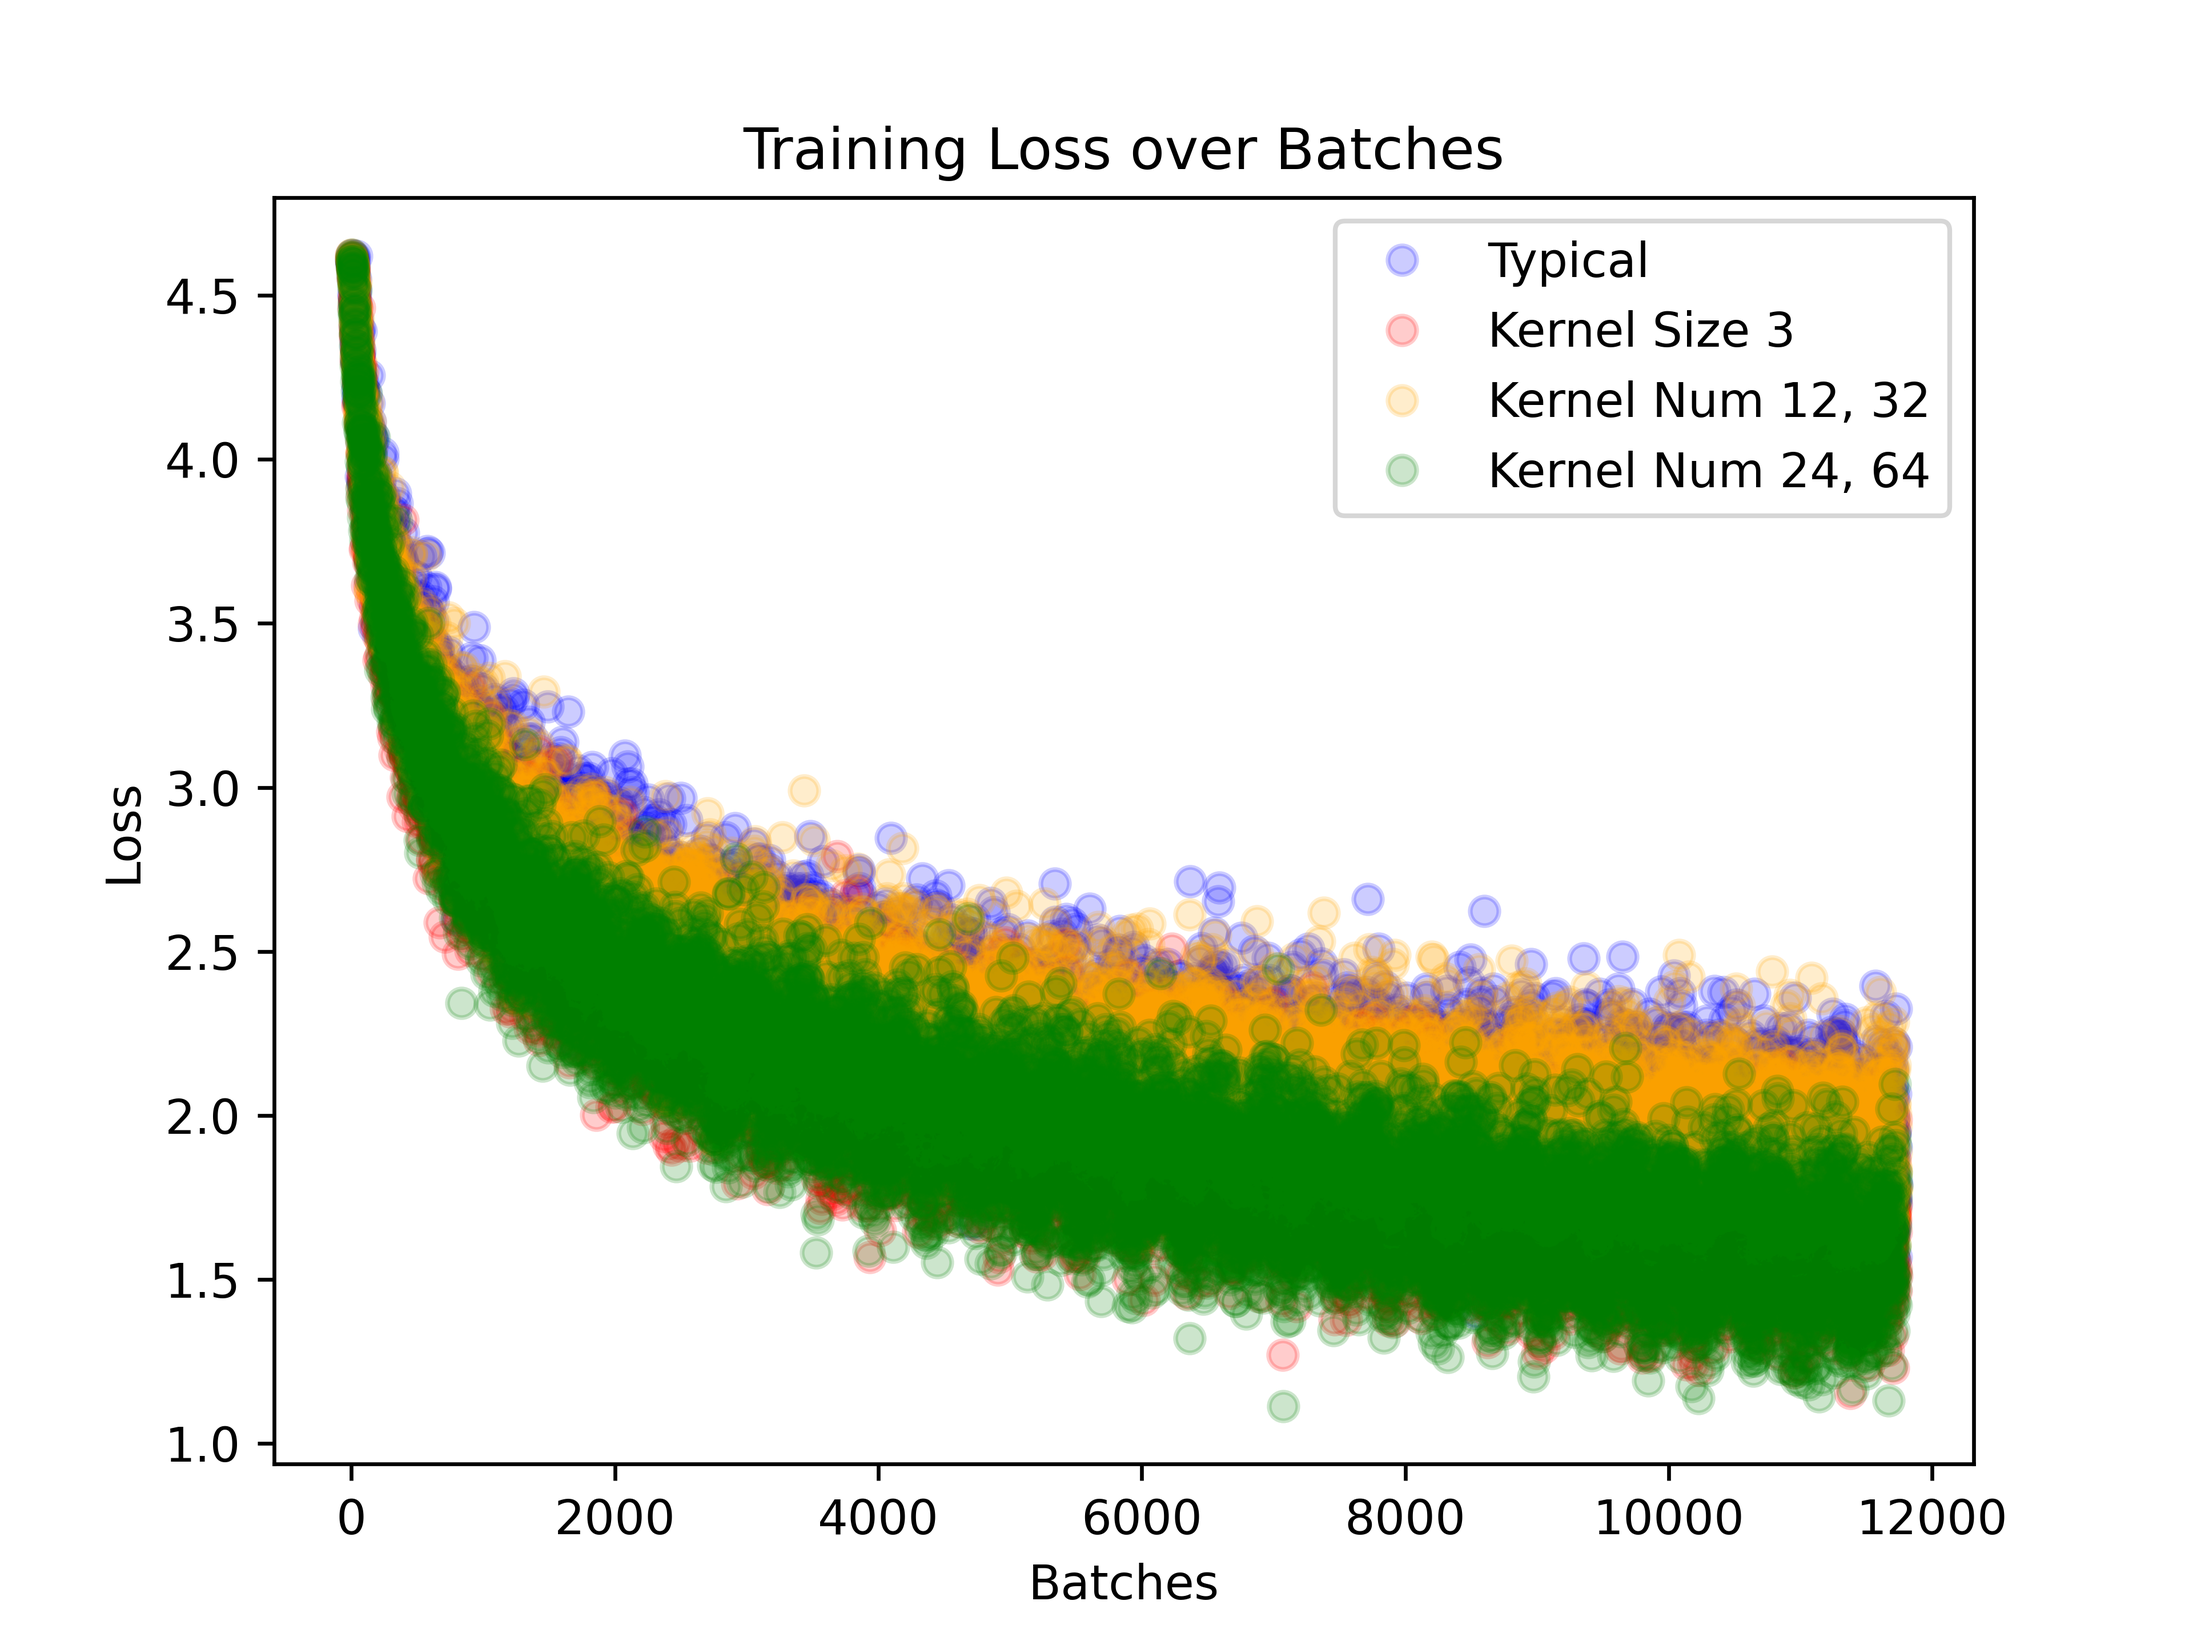
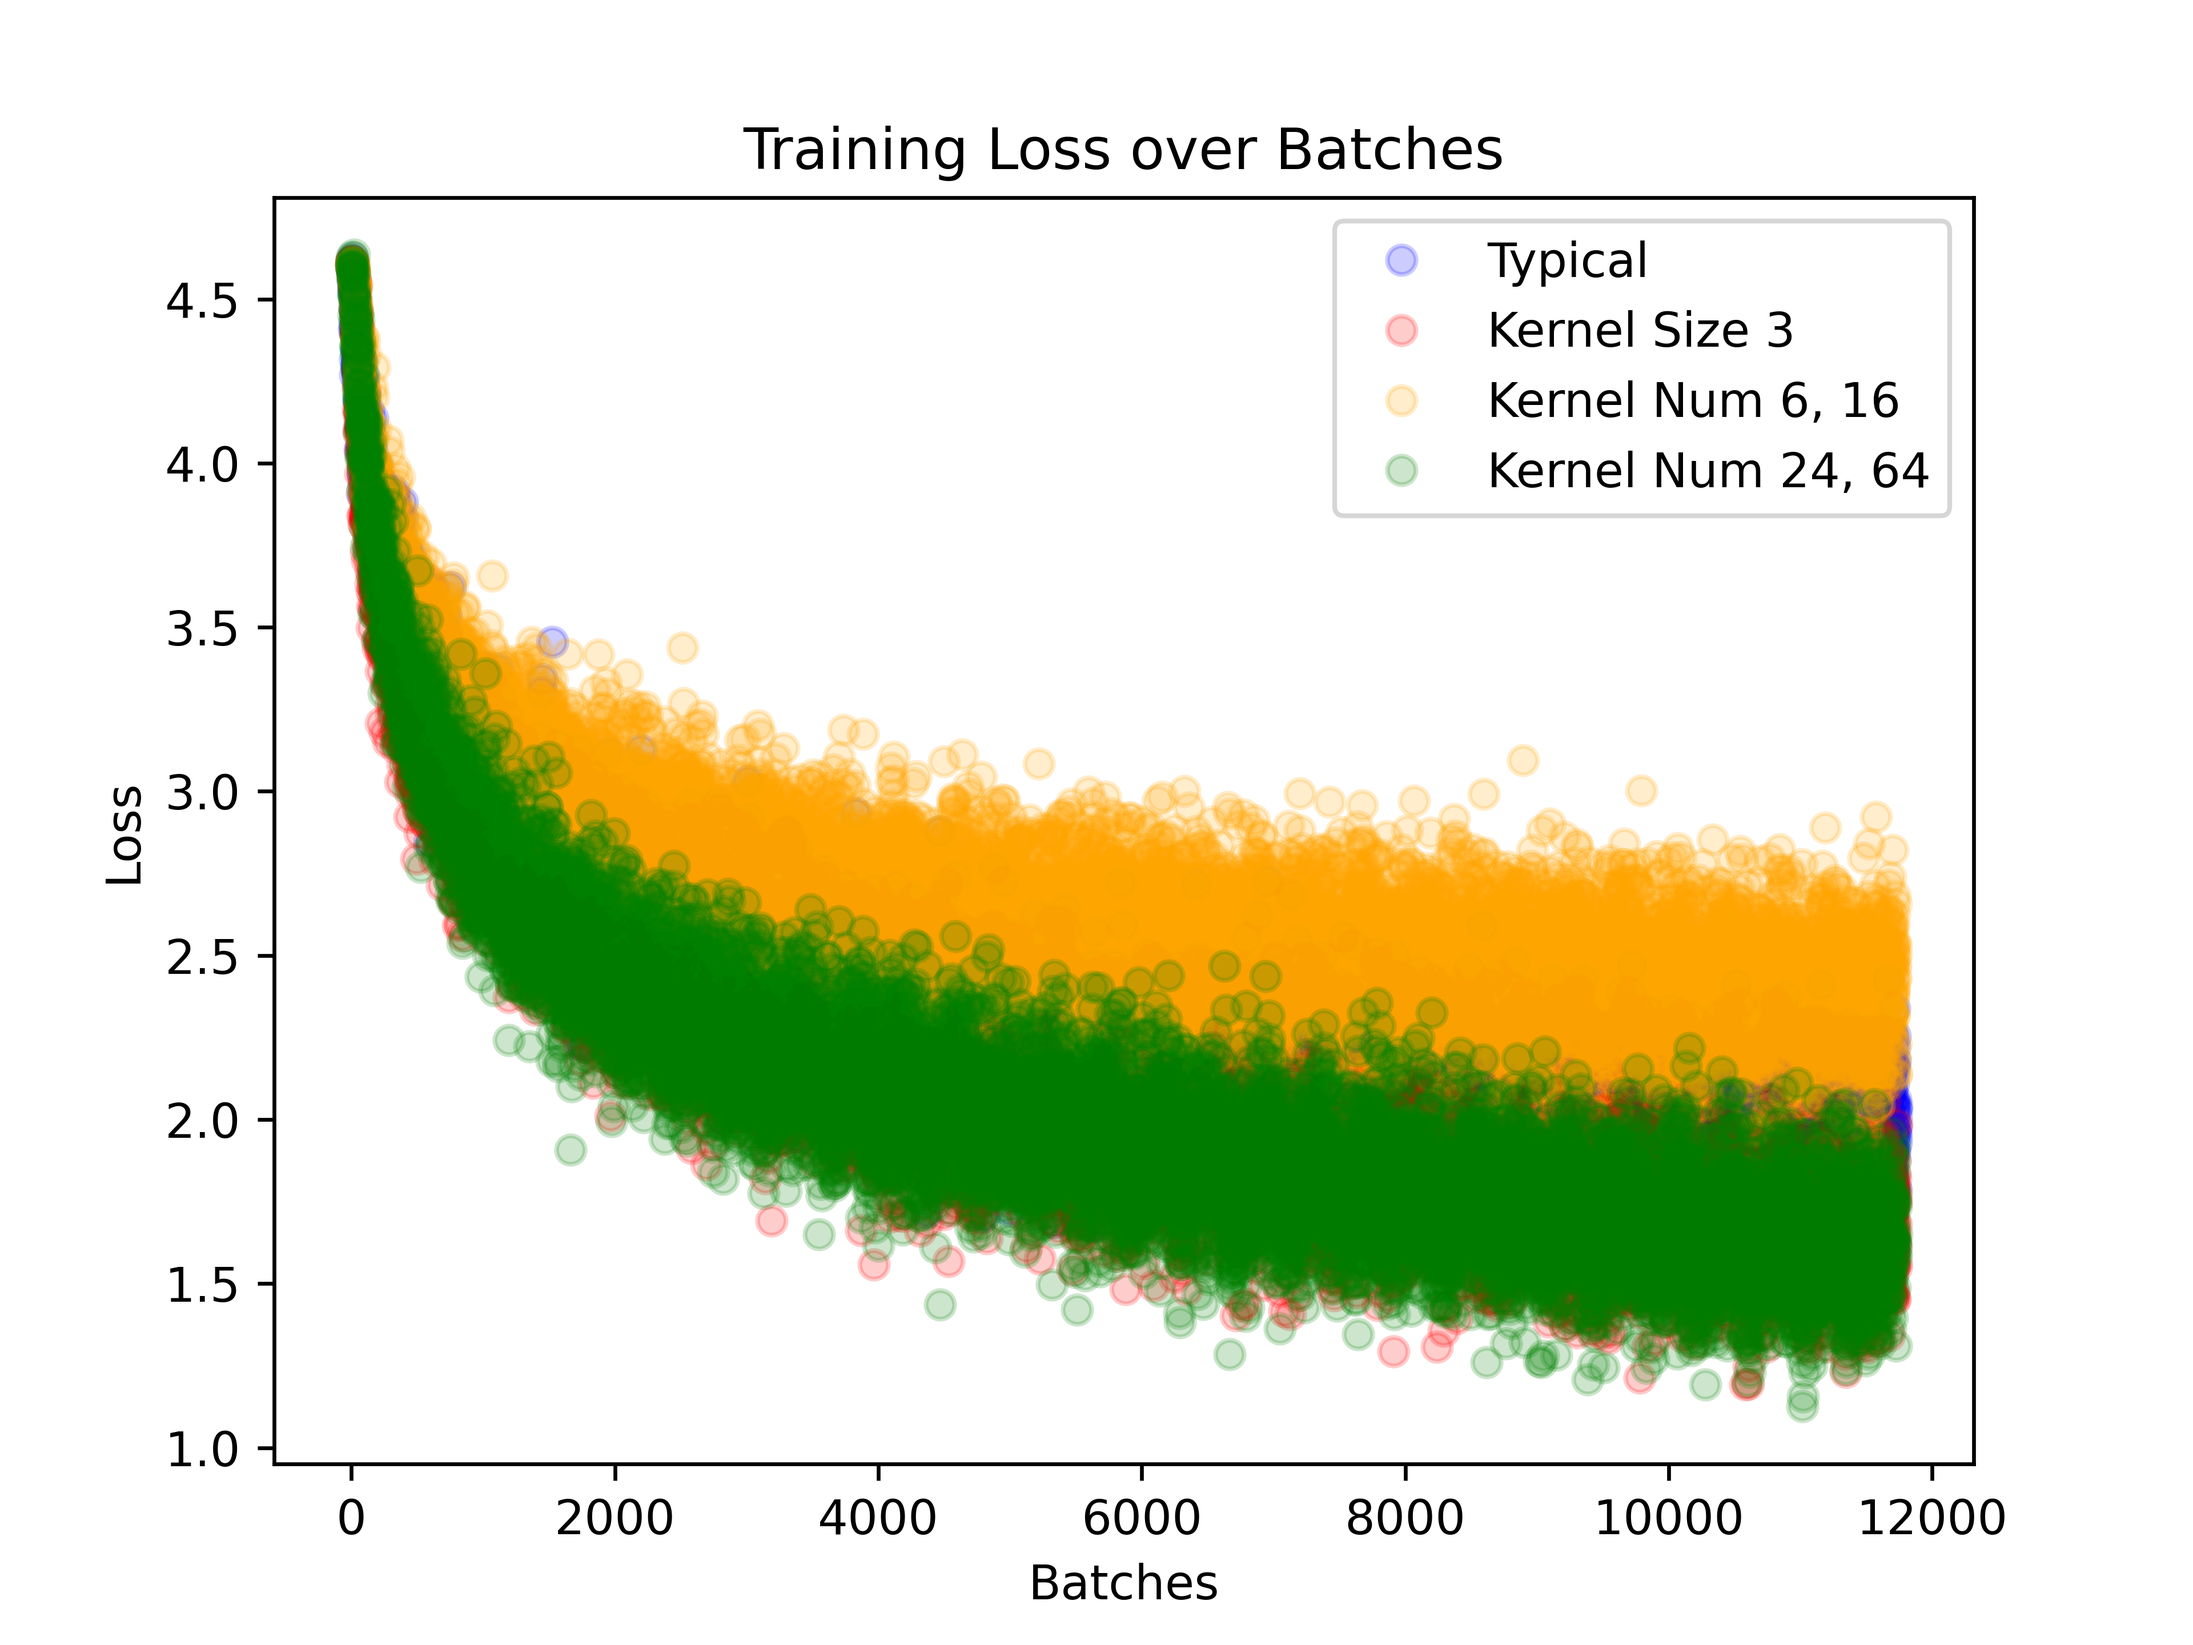
color

diff --git a/PA1/test_normalize.py b/PA1/test_normalize.py
@@ -6,7 +6,7 @@ import matplotlib.pyplot as plt
 
 args = train.args
 train.total_epoch = 30
-args['dataset'] = 'cifar10'
+args['dataset'] = 'cifar100'
 
 # 经典 LeNet-5，无归一化，batch_size = 64
 args['batch_size'] = 64
@@ -128,10 +128,10 @@ plt.savefig(f'./PA1/img/loss_norm_{args["dataset"]}_{args["model"]}_256.png', dp
 plt.clf()
 
 # Plot acc_log
-plt.plot(none_64_conv, label='None 64')
-plt.plot(bn_64_conv, label='BN 64')
-plt.plot(ln_64_conv, label='LN 64')
-plt.plot(gn_64_conv, label='GN 64')
+plt.plot(none_64_conv, label='None 64', color='blue')
+plt.plot(bn_64_conv, label='BN 64', color='red')
+plt.plot(ln_64_conv, label='LN 64', color='orange')
+plt.plot(gn_64_conv, label='GN 64', color='green')
 plt.xlabel('Epoch')
 plt.ylabel('Accuracy')
 plt.title('Test Accuracy over Epochs')
@@ -139,10 +139,10 @@ plt.legend()
 plt.savefig(f'./PA1/img/acc_norm_{args["dataset"]}_{args["model"]}_64.png', dpi = 600)
 plt.clf()
 
-plt.plot(none_128_conv, label='None 128')
-plt.plot(bn_128_conv, label='BN 128')
-plt.plot(ln_128_conv, label='LN 128')
-plt.plot(gn_128_conv, label='GN 128')
+plt.plot(none_128_conv, label='None 128', color='blue')
+plt.plot(bn_128_conv, label='BN 128', color='red')
+plt.plot(ln_128_conv, label='LN 128', color='orange')
+plt.plot(gn_128_conv, label='GN 128', color='green')
 plt.xlabel('Epoch')
 plt.ylabel('Accuracy')
 plt.title('Test Accuracy over Epochs')
@@ -150,10 +150,10 @@ plt.legend()
 plt.savefig(f'./PA1/img/acc_norm_{args["dataset"]}_{args["model"]}_128.png', dpi = 600)
 plt.clf()
 
-plt.plot(none_256_conv, label='None 256')
-plt.plot(bn_256_conv, label='BN 256')
-plt.plot(ln_256_conv, label='LN 256')
-plt.plot(gn_256_conv, label='GN 256')
+plt.plot(none_256_conv, label='None 256', color='blue')
+plt.plot(bn_256_conv, label='BN 256', color='red')
+plt.plot(ln_256_conv, label='LN 256', color='orange')
+plt.plot(gn_256_conv, label='GN 256', color='green')
 plt.xlabel('Epoch')
 plt.ylabel('Accuracy')
 plt.title('Test Accuracy over Epochs')

diff --git a/PA1/test_kernel.py b/PA1/test_kernel.py
@@ -8,7 +8,7 @@ args = train.args
 train.total_epoch = 30
 args['dataset'] = 'cifar100'
 
-# 经典 LeNet-5
+# 经典 LeNet-5, kernel_size 为 5, kernel_num1 为 12, kernel_num2 为 32
 train.args = args
 train.main()
 typical_loss, typical_conv = train.loss_log, train.acc_log
@@ -21,10 +21,10 @@ train.main()
 resize_loss, resize_acc = train.loss_log, train.acc_log
 train.loss_log, train.acc_log = [], []
 
-# 修改 kernel_num1 为 12, kernel_num2 为 32
+# 修改 kernel_num1 为 6, kernel_num2 为 16
 args['kernel_size'] = 5
-args['kernel_num1'] = 12
-args['kernel_num2'] = 32
+args['kernel_num1'] = 6
+args['kernel_num2'] = 16
 train.args = args
 train.main()
 renum1_loss, renum1_acc = train.loss_log, train.acc_log
@@ -41,7 +41,7 @@ train.loss_log, train.acc_log = [], []
 # Plot loss_log
 plt.plot(typical_loss, "o", color='blue', alpha=0.2, label='Typical')
 plt.plot(resize_loss, "o", color='red', alpha=0.2, label='Kernel Size 3')
-plt.plot(renum1_loss, "o", color='orange', alpha=0.2, label='Kernel Num 12, 32')
+plt.plot(renum1_loss, "o", color='orange', alpha=0.2, label='Kernel Num 6, 16')
 plt.plot(renum2_loss, "o", color='green', alpha=0.2, label='Kernel Num 24, 64')
 plt.xlabel('Batches')
 plt.ylabel('Loss')
@@ -51,10 +51,10 @@ plt.savefig(f'./PA1/img/loss_kernels_{args["dataset"]}_{args["model"]}.png', dpi
 plt.clf()
 
 # Plot acc_log
-plt.plot(typical_conv, label='Typical')
-plt.plot(resize_acc, label='Kernel Size 3')
-plt.plot(renum1_acc, label='Kernel Num 12, 32')
-plt.plot(renum2_acc, label='Kernel Num 24, 64')
+plt.plot(typical_conv, label='Typical', color='blue')
+plt.plot(resize_acc, label='Kernel Size 3', color='red')
+plt.plot(renum1_acc, label='Kernel Num 6, 16', color='orange')
+plt.plot(renum2_acc, label='Kernel Num 24, 64', color='green')
 plt.xlabel('Epoch')
 plt.ylabel('Accuracy')
 plt.title('Test Accuracy over Epochs')

diff --git a/PA1/test_layers.py b/PA1/test_layers.py
@@ -5,7 +5,7 @@ import train
 import matplotlib.pyplot as plt
 
 args = train.args
-train.total_epoch = 30
+train.total_epoch = 50
 args['dataset'] = 'cifar100'
 
 # 经典 LeNet-5
@@ -43,7 +43,7 @@ plt.xlabel('Batches')
 plt.ylabel('Loss')
 plt.title('Training Loss over Batches')
 plt.legend()
-plt.savefig(f'./PA1/img/loss_layers_{args["dataset"]}_{args["model"]}.png', dpi = 600)
+plt.savefig(f'./PA1/img/loss_layers_{args["dataset"]}_{args["model"]}_long.png', dpi = 600)
 plt.clf()
 
 # Plot acc_log
@@ -55,4 +55,4 @@ plt.xlabel('Epoch')
 plt.ylabel('Accuracy')
 plt.title('Test Accuracy over Epochs')
 plt.legend()
-plt.savefig(f'./PA1/img/acc_layers_{args["dataset"]}_{args["model"]}.png', dpi = 600)
+plt.savefig(f'./PA1/img/acc_layers_{args["dataset"]}_{args["model"]}_long.png', dpi = 600)

diff --git a/PA2/test_optimizer.py b/PA2/test_optimizer.py
@@ -6,7 +6,7 @@ import matplotlib.pyplot as plt
 
 args = train.args
 train.total_epoch = 30
-args['dataset'] = 'cifar10'
+args['dataset'] = 'cifar100'
 
 # Adam 优化器
 train.args = args
@@ -40,9 +40,9 @@ plt.savefig(f'./PA2/img/loss_opt_{args["dataset"]}_{args["model"]}.png', dpi = 6
 plt.clf()
 
 # Plot acc_log
-plt.plot(adam_conv, label='Adam')
-plt.plot(sgd_conv, label='SGD')
-plt.plot(adadelta_conv, label='Adadelta')
+plt.plot(adam_conv, label='Adam', color='blue')
+plt.plot(sgd_conv, label='SGD', color='red')
+plt.plot(adadelta_conv, label='Adadelta', color='orange')
 plt.xlabel('Epoch')
 plt.ylabel('Accuracy')
 plt.title('Test Accuracy over Epochs')

diff --git a/PA1/test_activate.py b/PA1/test_activate.py
@@ -47,10 +47,10 @@ plt.savefig(f'./PA1/img/loss_activate_{args["dataset"]}_{args["model"]}.png', dp
 plt.clf()
 
 # Plot acc_log
-plt.plot(relu_conv, label='ReLU')
-plt.plot(gelu_acc, label='GELU')
-plt.plot(sigmoid_acc, label='Sigmod')
-plt.plot(tanh_acc, label='Tanh')
+plt.plot(relu_conv, label='ReLU', color='blue')
+plt.plot(gelu_acc, label='GELU', color='red')
+plt.plot(sigmoid_acc, label='Sigmod', color='orange')
+plt.plot(tanh_acc, label='Tanh', color='green')
 plt.xlabel('Epoch')
 plt.ylabel('Accuracy')
 plt.title('Test Accuracy over Epochs')

diff --git a/PA3/test_attention.py b/PA3/test_attention.py
@@ -47,10 +47,10 @@ plt.savefig(f'./PA3/img/loss_att_{args["dataset"]}_{args["model"]}.png', dpi = 6
 plt.clf()
 
 # Plot acc_log
-plt.plot(typical_conv, label='Typical')
-plt.plot(se_conv, label='SE')
-plt.plot(eca_conv, label='ECA')
-plt.plot(cbam_conv, label='CBAM')
+plt.plot(typical_conv, label='Typical', color='blue')
+plt.plot(se_conv, label='SE', color='red')
+plt.plot(eca_conv, label='ECA', color='orange')
+plt.plot(cbam_conv, label='CBAM', color='green')
 plt.xlabel('Epoch')
 plt.ylabel('Accuracy')
 plt.title('Test Accuracy over Epochs')
